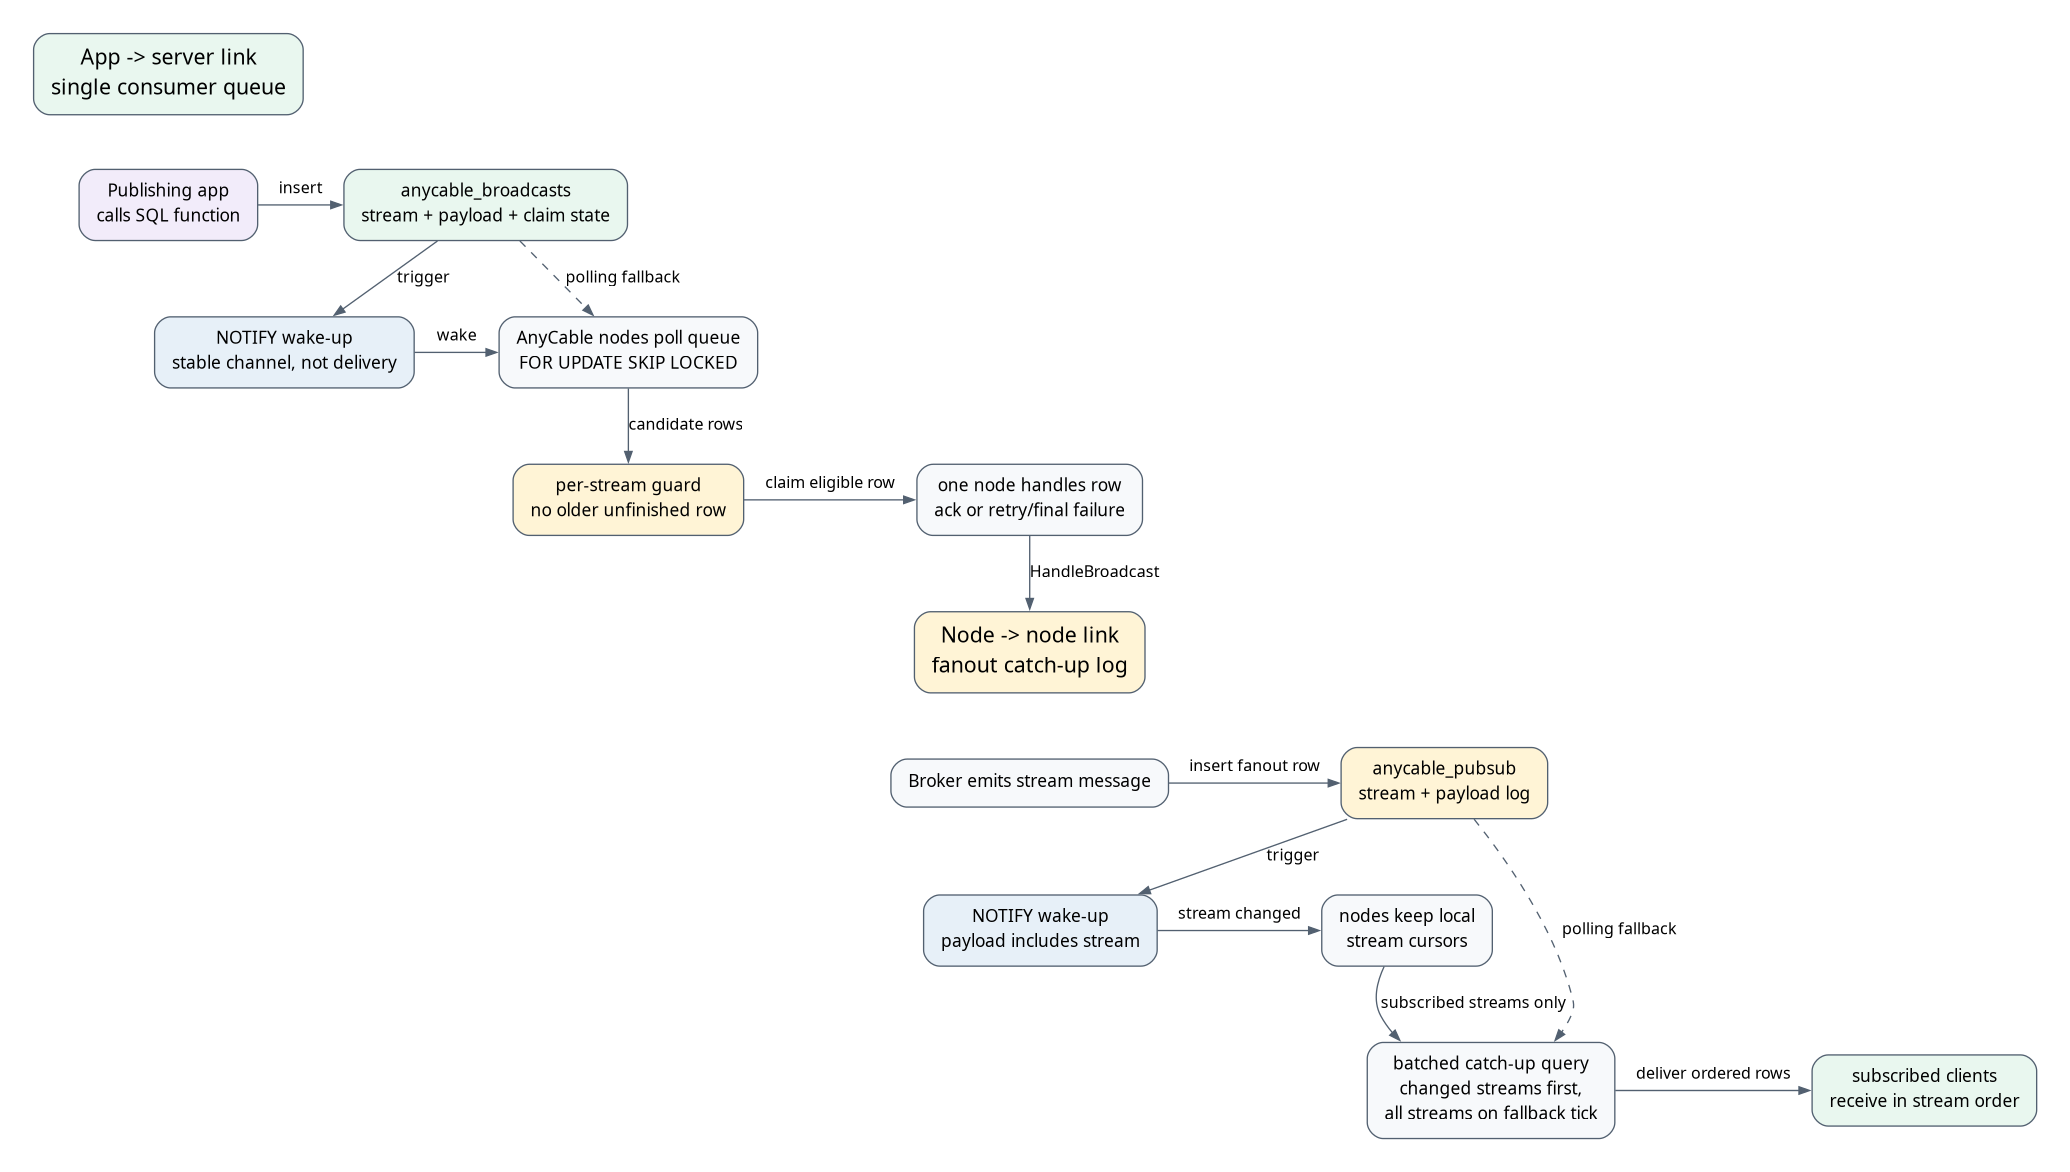
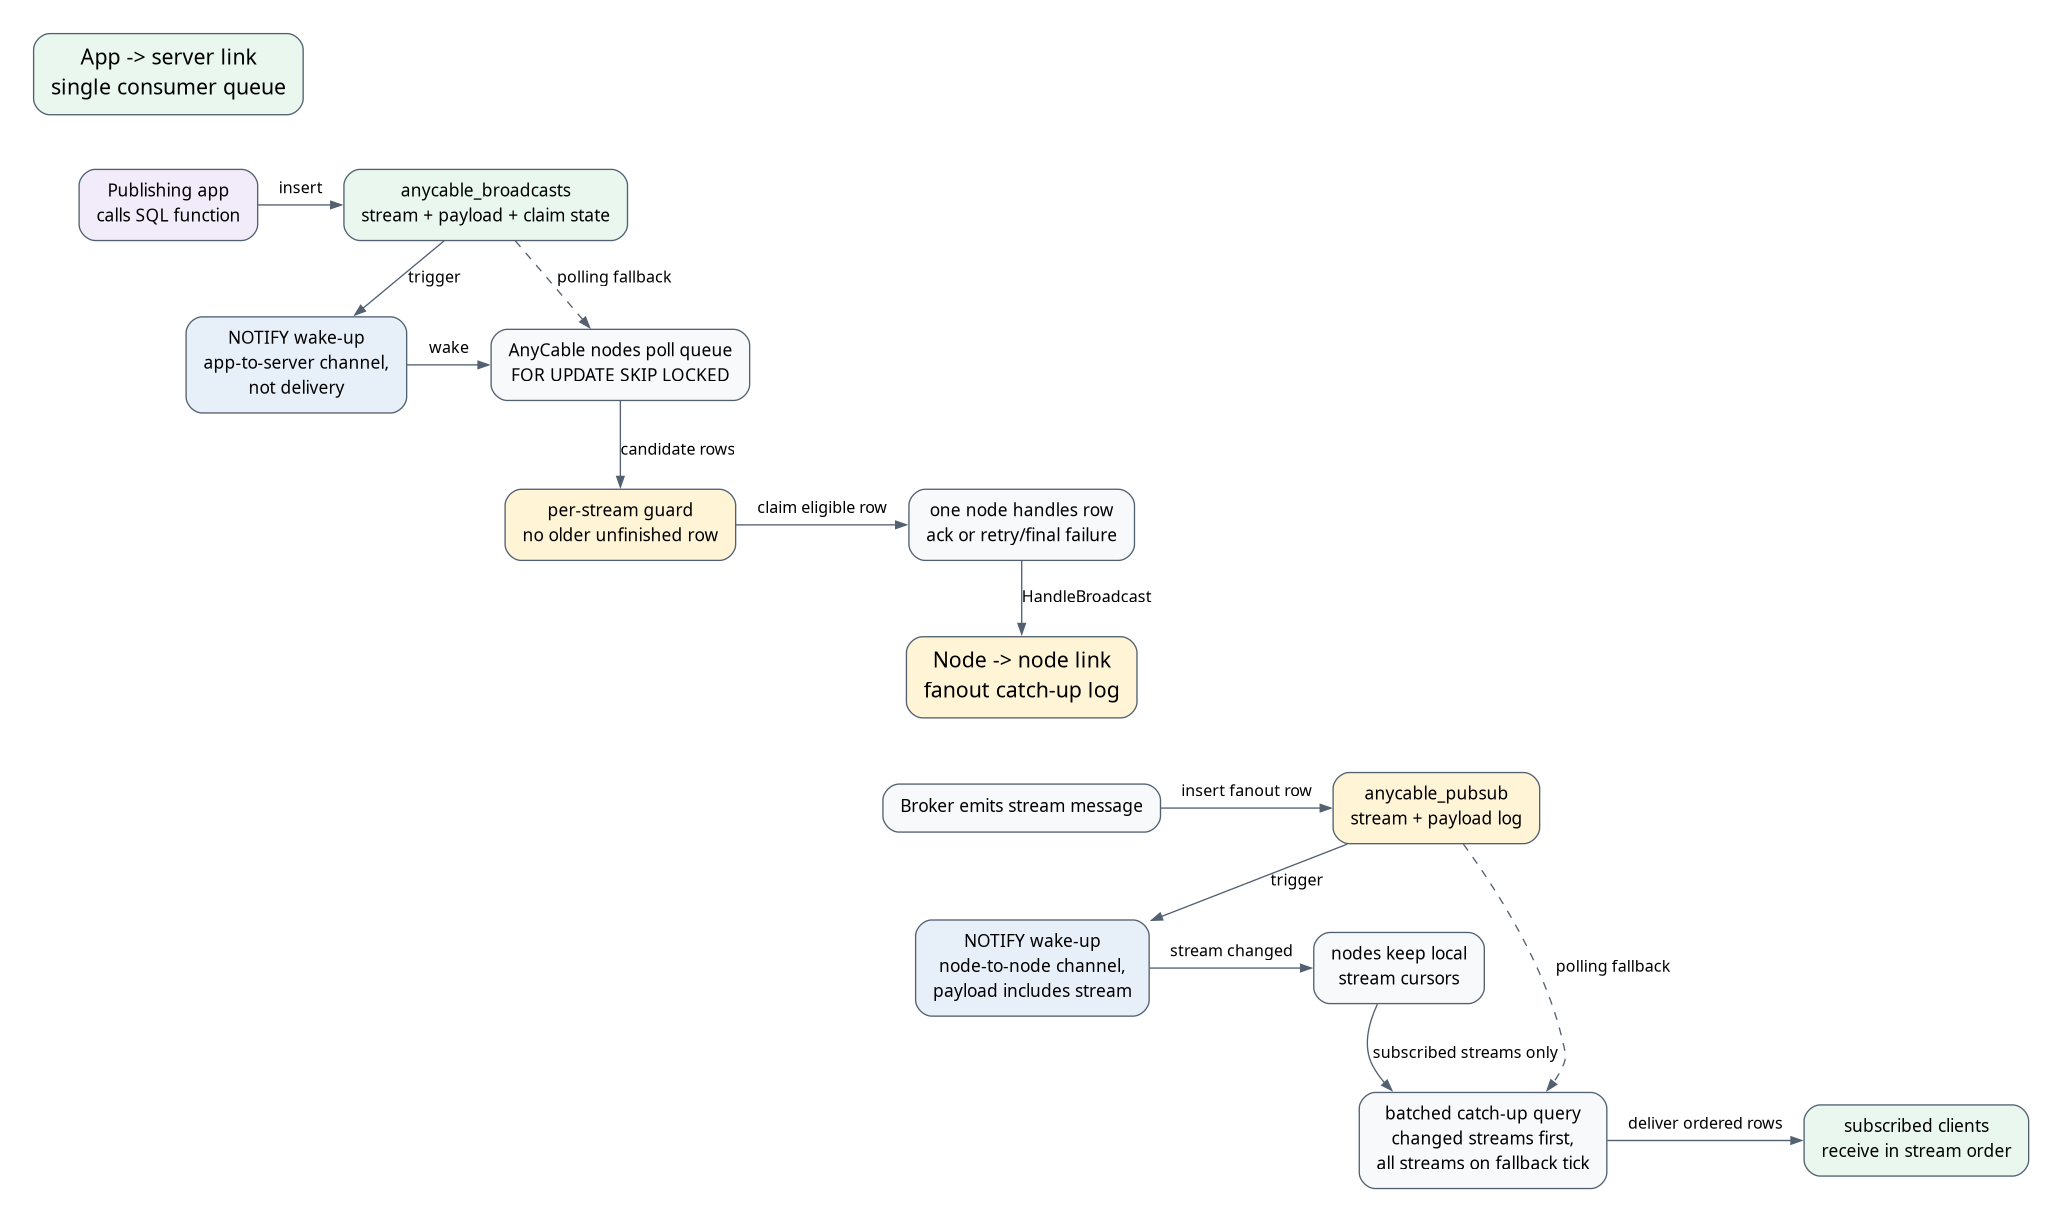
Resolve Postgres signalling plan decisions

diff --git a/docs/postgres-signalling-plan.md b/docs/postgres-signalling-plan.md
@@ -8,9 +8,9 @@ clean final shape rather than preserving the first local implementation.
 
 - Polling is the source of truth. `LISTEN/NOTIFY` only wakes polling loops and
   never carries durable delivery payloads.
-- Do not create one PostgreSQL `LISTEN` channel per stream. Use stable wake-up
-  channels and include enough payload metadata for nodes to decide whether they
-  need to catch up.
+- Do not create one PostgreSQL `LISTEN` channel per stream. Use two stable
+  wake-up channels and include enough payload metadata for nodes to decide
+  whether they need to catch up.
 - Treat app-to-server broadcasts and node-to-node fanout as two logical links
   with different delivery semantics.
 - Keep this PR focused on signalling. Broker/history support can use the same
@@ -30,7 +30,8 @@ AnyCable Go owns the schema required by PostgreSQL-backed components:
   component is active;
 - fail startup if schema management is enabled and the schema cannot be created
   or validated;
-- provide a concise opt-out flag for deployments that manage schema externally;
+- provide `postgres_ensure_schema` as a concise opt-out flag for deployments
+  that manage schema externally;
 - keep publishing applications behind SQL functions instead of requiring them
   to know table layouts.
 
@@ -40,9 +41,9 @@ then interrogate PostgreSQL catalogs to validate the resulting shape. This keeps
 the table surface to the two delivery tables: `anycable_broadcasts` and
 `anycable_pubsub`.
 
-The current flag name is still a decision point. The maintainer suggested a
-`--disable-postgres-schema-check` style flag; the implementation should choose a
-name that reflects both creation and validation.
+The proposed flag follows the existing `postgres_*` configuration convention:
+`--postgres_ensure_schema=false` skips DDL creation/actualization. Startup still
+interrogates PostgreSQL catalogs and fails when the schema shape is incompatible.
 
 ### App-to-server queue
 
@@ -55,10 +56,23 @@ applications:
 - successful rows are acked;
 - failed rows are released for retry or left with failure details after attempts
   are exhausted;
+- the behavior for exhausted rows is controlled by
+  `postgres_exhausted_broadcast_policy`;
 - `NOTIFY` only wakes nodes after inserts.
 
 This keeps the existing broadcaster shape, but makes the stream visible to SQL
 so the claim query can preserve per-stream order.
+
+`postgres_exhausted_broadcast_policy` should support:
+
+- `skip`: keep failure details for inspection, but unblock later same-stream
+  rows after the older row exhausts attempts;
+- `block`: keep the exhausted row as an ordering barrier until an operator
+  resolves or removes it.
+
+`skip` is the pragmatic default because it avoids one poison row stopping a
+stream forever. `block` is available for deployments that prefer strict
+same-stream sequence handling after unrecoverable failures.
 
 ### Node-to-node fanout log
 
@@ -81,14 +95,14 @@ This keeps PostgreSQL from acting like Redis with thousands of dynamic
 
 1. A publishing application calls `anycable_publish(stream, payload, meta)`.
 2. PostgreSQL inserts an `anycable_broadcasts` row and sends a wake-up
-   notification.
+   notification on the app-to-server channel.
 3. AnyCable nodes poll the broadcast queue. The claim query uses
    `FOR UPDATE SKIP LOCKED` and only claims rows that have no older unfinished
    row for the same stream.
 4. The winning node handles the broadcast through the broker path.
 5. The broker writes a node-to-node fanout row to `anycable_pubsub`.
 6. PostgreSQL sends a wake-up notification whose payload includes the stream
-   name.
+   name on the node-to-node channel.
 7. Nodes subscribed to that stream batch-fetch rows newer than their local
    cursor and deliver them in stream order.
 8. Periodic polling remains the correctness fallback if notifications are
@@ -134,8 +148,8 @@ RETURNING broadcasts.id, broadcasts.stream, broadcasts.payload, broadcasts.attem
 
 This allows rows from different streams to be processed concurrently while
 serializing rows for the same stream. If an older same-stream row exhausts its
-attempts, later rows may proceed; that creates a dropped-message gap, but not an
-inversion of successfully processed messages.
+attempts, the configured exhausted-row policy decides whether later rows may
+proceed.
 
 For node-to-node fanout, each node should serialize its own polling loop,
 deliver rows ordered by `(stream, id)`, and advance a stream cursor only after
@@ -187,6 +201,12 @@ The functions should:
 - trigger a wake-up notification;
 - return the created row id for observability.
 
+Payload columns should be `text`. The payload is an opaque serialized AnyCable
+message; routing and queue behavior should rely on explicit columns such as
+`stream` and claim state, not SQL inspection of the payload body. If future
+broker/history work needs structured metadata, add separate metadata columns
+rather than making the main payload `jsonb`.
+
 The node-to-node fanout table remains an internal server detail in this PR.
 
 ## Implementation Steps
@@ -198,7 +218,8 @@ The node-to-node fanout table remains an internal server detail in this PR.
 3. Update the broadcast claim query to enforce per-stream ordering.
 4. Keep final failed rows claimed for inspection; non-final failures release
    their claim for retry.
-5. Keep one stable notification mechanism; do not add per-stream `LISTEN`s.
+5. Use two stable notification channels, one for app-to-server wakeups and one
+   for node-to-node fanout wakeups; do not add per-stream `LISTEN`s.
 6. Pass notification payloads into adapter wake-up code so pub/sub can enqueue
    changed streams.
 7. Replace pub/sub per-stream polling with batched catch-up by stream cursor.
@@ -221,8 +242,11 @@ Core coverage:
 - rows for different streams can be processed concurrently;
 - later same-stream rows are not claimed while an older same-stream row is
   unfinished;
-- final failures keep inspection data and unblock or block later same-stream
-  rows according to the agreed policy;
+- final failures keep inspection data;
+- `postgres_exhausted_broadcast_policy=skip` lets later same-stream rows move
+  after an exhausted row;
+- `postgres_exhausted_broadcast_policy=block` keeps later same-stream rows
+  blocked behind an exhausted row;
 - successful broadcast rows are acked;
 - notification payloads include the changed stream name;
 - nodes ignore notifications for unsubscribed streams;
@@ -264,15 +288,3 @@ go test ./... -run Postgres
 
 Run broader `go test ./...` once the targeted suites pass and local Redis/NATS
 dependencies are available or isolated.
-
-## Maintainer Decision Gates
-
-- Should the implementation keep one configured PostgreSQL notification channel
-  with typed payloads, or split app-to-server and node-to-node into two stable
-  channels? Both avoid per-stream `LISTEN`s.
-- What is the preferred opt-out flag name for server-owned schema ensure and
-  validation?
-- Should final failed same-stream broadcast rows unblock later rows after
-  attempts are exhausted, or should they block until operator intervention?
-- Should payload columns remain `text` for parity with current JSON handling, or
-  should schema-owned tables use `jsonb` now?
